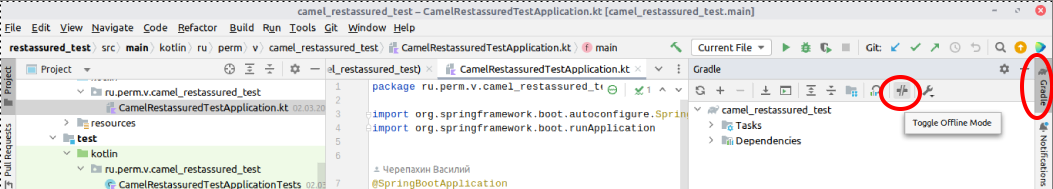
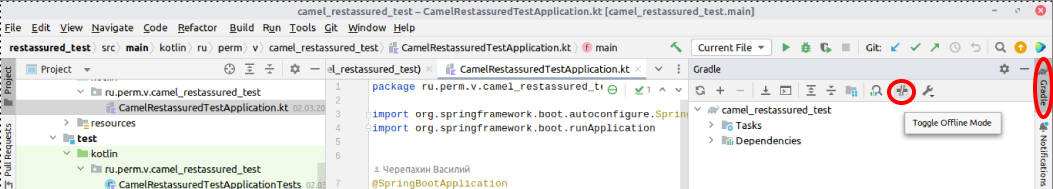
add screen to offline.html

Changed region(s): [[0.9421, 0.2646, 1.0, 0.6349], [0.8205, 0.3968, 0.8813, 0.582]]

diff --git a/offline/offline.html b/offline/offline.html
@@ -1,4 +1,4 @@
-Проблема: доступ в интернет сильно ограничен или репозиториям проекта, практически, околонулевой. Решение - кешировать зависимости.
+Проблема: доступ в интернет или к репозиториям проекта сильно ограничен, практически, околонулевой. Решение - кешировать зависимости.
 <hr id="system-readmore" />
 <h3>Maven</h3>
 Включить режим offline (ключ <b>-o</b>).
@@ -20,7 +20,7 @@ $ mvn -o test
 <p><img style="display: block; margin-left: auto; margin-right: auto;" title="Maven offline" src="images/offline/idea_dependies.png"
         alt="Maven offline" width="365" height="264"/></p>
 <br/>
-Включение <b>offline</b> режима для <b>maven</b> в <b>Idea</b> в меню <b>File -> Settings -> Build, Execution, Deployment -> Build Tools -> Maven -> and check/uncheck Work offline</b>.
+В <b>Idea</b> включение offline режима для <b>maven</b> в меню <b>File -> Settings -> Build, Execution, Deployment -> Build Tools -> Maven -> and check/uncheck Work offline</b>.
 <br/><br/>
 <p><img style="display: block; margin-left: auto; margin-right: auto;" title="Maven offline" src="images/offline/maven_offline.png"
         alt="Maven offline" width="987" height="522"/></p>
@@ -32,5 +32,5 @@ $ mvn -o test
 <pre class="language-shell"><code>$ gradle --offline build
 </code></pre>
 В Idea:
-<p><img style="display: block; margin-left: auto; margin-right: auto;" title="Maven offline" src="images/offline/maven_offline.png"
+<p><img style="display: block; margin-left: auto; margin-right: auto;" title="Maven offline" src="images/offline/gradle_offline_idea.png"
         alt="Maven offline" width="1053" height="189"/></p>
